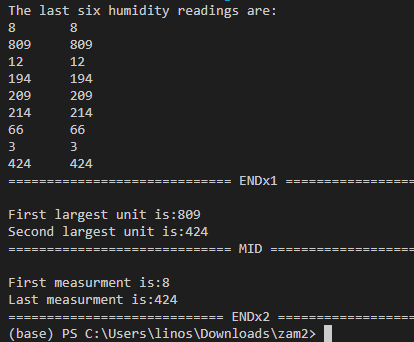
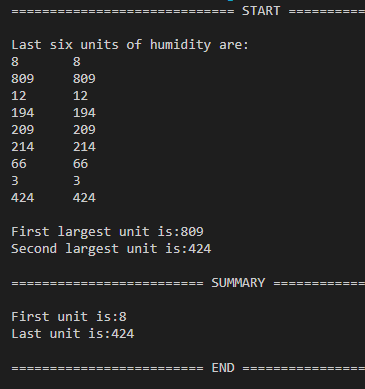
consolidation from two to one module

diff --git a/marvin/src/main/java/bankfocus/Smallestx2.java b/marvin/src/main/java/bankfocus/Smallestx2.java
@@ -5,34 +5,29 @@ public class Smallestx2 {
 		int d=arr.length;
 		int largest = arr[0];
 		int secondLargest = arr[0];	
-		System.out.println("============================= START =================");	
-		System.out.println("The last six humidity readings are:" );
-		for (int i = 0; i < arr.length; i++) 
+		System.out.println("============================= START ================="+"\n");	
+		System.out.println("Last six units of humidity are:" );
+		for (int i = 0; i < d; i++) 
 		{	System.out.print(arr[i]+"\t");	
 			System.out.print(arr[i]+"\n");
 		}	
-		// System.out.println("============================= START =================");
+
 		for (int i = 0; i < d; i++) {
  			if (arr[i] > largest && arr[i] > secondLargest) {
 				secondLargest = largest;  // yes, the largest is demoted second
-				largest = arr[i];          // trial becomes number one
-			 }
-			 else if (arr[i] > secondLargest) { // Second competition
+				largest = arr[i];         			 }
+			else if (arr[i] > secondLargest) { 
 				secondLargest = arr[i];     //yes is further demoted to third!
  			}
 		}
 	
         System.out.print("\nFirst largest unit is:" + largest);
-		System.out.println("\nSecond largest unit is:" + secondLargest);
+		System.out.println("\nSecond largest unit is:" + secondLargest +"\n");
 		System.out.println("========================= SUMMARY =====================");
-			System.out.print("\nFirst measurment is:" + arr[0]);
+			System.out.print("\nFirst unit is:" + arr[0]);
 	    	// 2nd element because index starts from 0 
-	        System.out.print("\nLast measurment is:" + arr[d-1]+"\n");
+	        System.out.println("\nLast unit is:" + arr[d-1]+"\n");
 	      //  1st element because index starts from 0  
-	     System.out.println("========================= END =======================");
+	     System.out.println("========================= END ======================="+"\n");
  	}
 }
-//	1-2-3
-// cd C:\Users\linos\Downloads\brno\src\main\java
-// javac Smallestx2.java
-// java Smallestx2 

diff --git a/READMe.md b/READMe.md
@@ -23,6 +23,4 @@ The application is a collection of some of the various required aspect in Java p
 
  Below are some Screens shots from the application
 
-![ Application Singleton Interface page #1 ](https://github.com/LINOSNCHENA/Registration-for-Pemba-Symposium/blob/master/page22.png)
-
-![ Application Singleton Interface page #2 ](https://github.com/LINOSNCHENA/Investigation-and-programming-mathematics/blob/master/marvin/src/main/java/muntuxyz/page1.png)
+![ Single monitor display page #1 ](https://github.com/LINOSNCHENA/Investigation-and-programming-mathematics/blob/master/marvin/src/main/java/muntuxyz/page1.png)
